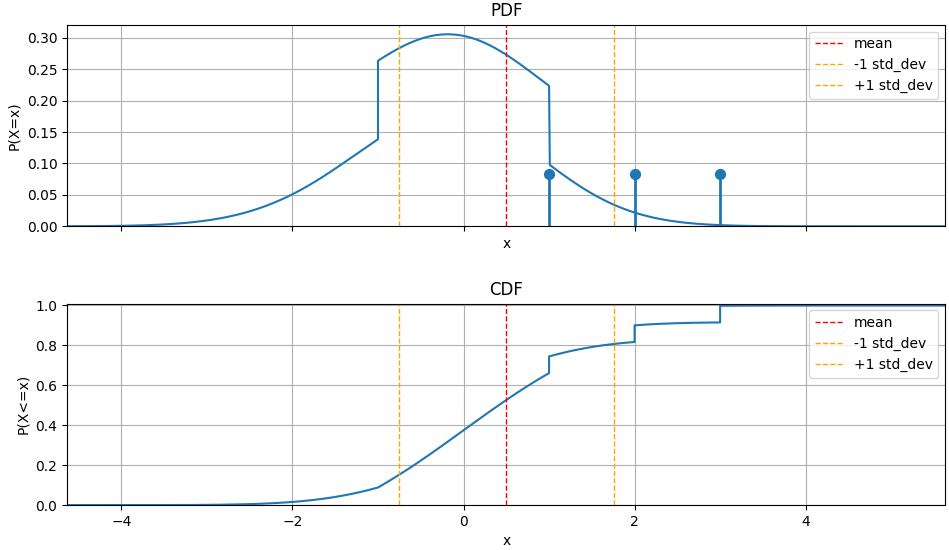
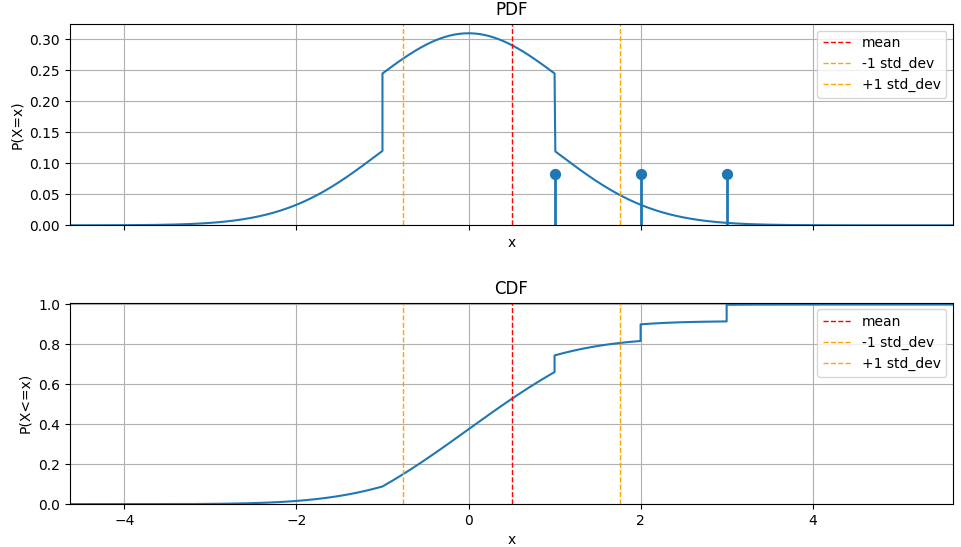
bugfix: convolution

Changed region(s): [[0.0, 0.0, 1.0, 0.4662], [0.0, 0.4973, 1.0, 0.9634], [0.5195, 0.9634, 0.5501, 0.9945]]

diff --git a/randcraft/rvs/multi.py b/randcraft/rvs/multi.py
@@ -86,22 +86,49 @@ class MultiRV(ContinuousRV):
         return ProbabilityDensityFunction(x=x, y=result)
 
     def _calculate_continuous_pdf(self, x: np.ndarray) -> np.ndarray:
-        if len(self.continuous_pdfs) == 1:
+        C = len(self.continuous_pdfs)
+        if C == 1:
             return self.continuous_pdfs[0].calculate_pdf(x).y
-
         assert x.ndim == 1, "Input numpy array must be 1D"
-        low = np.min(x)
-        high = np.max(x)
+        return self._continuous_pdf_ref.evaluate(x=x)
+
+    @cached_property
+    def _continuous_pdf_ref(self) -> ProbabilityDensityFunction:
+        C = len(self.continuous_pdfs)
+        N = 10000
+
+        if self.statistics.has_infinite_lower_support:
+            low = self.mean - 5 * self.std_dev
+        else:
+            low = self.statistics.support[0].value
+        low = min(low, 0.0)
+
+        if self.statistics.has_infinite_upper_support:
+            high = self.mean + 5 * self.std_dev
+        else:
+            high = self.statistics.support[1].value
+        high = max(high, 0.0)
+
         spread = high - low
+        spread = max(spread, 1.0)  # Ensure some minimum spread
         start = low - spread
         end = high + spread
-        x2 = np.linspace(start, end, len(x) * 3)
-        raw_pdfs = [pdf.calculate_pdf(x2).y for pdf in self.continuous_pdfs]
-        combined_pdf = fftconvolve(raw_pdfs[0], raw_pdfs[1], mode="same")
-        for pdf in raw_pdfs[2:]:
-            combined_pdf = fftconvolve(combined_pdf, pdf, mode="same")
-        combined_pdf /= np.trapezoid(combined_pdf, x2)  # Normalize
-        return np.interp(x, x2, combined_pdf)
+        x2 = np.linspace(start, end, N)
+        zero_pad = np.zeros(N)
+
+        def pad(arr: np.ndarray) -> np.ndarray:
+            return np.concatenate((zero_pad, arr, zero_pad))
+
+        pdfs = [pad(pdf.calculate_pdf(x2).y) for pdf in self.continuous_pdfs]
+
+        full_pdf = fftconvolve(pdfs[0], pdfs[1], mode="full")
+        for pdf in pdfs[2:]:
+            full_pdf = fftconvolve(full_pdf, pdf, mode="full")
+
+        new_x = np.linspace(start * C, end * C, C * (N - 1) + 1)
+        short_pdf = full_pdf[N * C : N * C + len(new_x)]
+        short_pdf /= np.trapezoid(short_pdf, new_x)  # Normalize
+        return ProbabilityDensityFunction(x=new_x, y=short_pdf)
 
     @cached_property
     def _cdf_estimator(self) -> CdfEstimator:

diff --git a/tests/test_combining_rvs.py b/tests/test_combining_rvs.py
@@ -1,6 +1,9 @@
+import numpy as np
+
 from randcraft.constructors import make_beta, make_coin_flip, make_die_roll, make_dirac, make_discrete, make_normal, make_uniform
 from randcraft.random_variable import RandomVariable
 from randcraft.rvs import DiracDeltaRV, DiscreteRV
+from randcraft.rvs.continuous import ContinuousRV
 from tests.base_test_case import BaseTestCase
 
 
@@ -95,6 +98,26 @@ class TestCombiningRvs(BaseTestCase):
         self.assertIsInstance(offset, RandomVariable)
         self.assertAlmostEqual(offset.get_mean(exact=True), 6)
         self.assertAlmostEqual(offset.get_variance(exact=True), rv1.get_variance())
+
+    def test_uniform_convolution_double(self) -> None:
+        rv1 = make_uniform(low=0, high=2)
+        joined = rv1.multi_sample(2)
+        inner_rv: ContinuousRV = joined._rv  # type: ignore
+        values = np.array([0, 1, 2, 3, 4])
+        pdf = inner_rv.calculate_pdf(x=values)
+        expected_values = [0, 0.25, 0.5, 0.25, 0.0]
+        for v, ev in zip(pdf.y, expected_values):
+            self.assertAlmostEqual(v, ev, places=3)
+
+    def test_uniform_convolution_triple(self) -> None:
+        rv1 = make_uniform(low=0, high=2)
+        joined = rv1.multi_sample(3)
+        inner_rv: ContinuousRV = joined._rv  # type: ignore
+        values = np.array([0, 1, 2, 3, 4, 5, 6])
+        pdf = inner_rv.calculate_pdf(x=values)
+        self.assertAlmostEqual(pdf.y[0], 0.0, places=3)
+        self.assertAlmostEqual(pdf.y[-1], 0.0, places=3)
+        self.assertEqual(np.argmax(pdf.y), 3)
 
     def test_uniform_multiplications(self) -> None:
         rv1 = make_uniform(low=0, high=10)

diff --git a/randcraft/constructors.py b/randcraft/constructors.py
@@ -1,5 +1,5 @@
 import numpy as np
-from scipy.stats import beta, gamma, norm, uniform
+from scipy.stats import beta, gamma, lognorm, norm, uniform
 from scipy.stats._distn_infrastructure import rv_continuous
 
 from randcraft.random_variable import RandomVariable
@@ -10,17 +10,7 @@ from randcraft.rvs import (
 )
 from randcraft.utils import clean_1d_array
 
-__all__ = [
-    "make_discrete",
-    "make_dirac",
-    "make_coin_flip",
-    "make_die_roll",
-    "make_scipy",
-    "make_normal",
-    "make_uniform",
-    "make_beta",
-    "make_gamma",
-]
+__all__ = ["make_discrete", "make_dirac", "make_coin_flip", "make_die_roll", "make_scipy", "make_normal", "make_uniform", "make_beta", "make_gamma", "make_log_normal"]
 
 
 # Discrete
@@ -75,3 +65,9 @@ def make_gamma(a: float | int, scale: float | int) -> RandomVariable:
     a = float(a)
     scale = float(scale)
     return make_scipy(scipy_rv=gamma, a=a, scale=scale)
+
+
+def make_log_normal(mean: float | int, std_dev: float | int) -> RandomVariable:
+    mean = float(mean)
+    std_dev = float(std_dev)
+    return make_scipy(scipy_rv=lognorm, s=std_dev, scale=np.exp(mean))

diff --git a/randcraft/__init__.py b/randcraft/__init__.py
@@ -2,22 +2,6 @@
 randcraft
 """
 
-from randcraft.constructors import (
-    make_coin_flip,
-    make_die_roll,
-    make_dirac,
-    make_discrete,
-    make_gamma,
-    make_normal,
-    make_uniform,
-)
+from randcraft.constructors import make_coin_flip, make_die_roll, make_dirac, make_discrete, make_gamma, make_log_normal, make_normal, make_uniform
 
-__all__ = [
-    "make_normal",
-    "make_uniform",
-    "make_discrete",
-    "make_dirac",
-    "make_coin_flip",
-    "make_die_roll",
-    "make_gamma",
-]
+__all__ = ["make_normal", "make_uniform", "make_discrete", "make_dirac", "make_coin_flip", "make_die_roll", "make_gamma", "make_log_normal"]

diff --git a/randcraft/models.py b/randcraft/models.py
@@ -237,7 +237,7 @@ class ProbabilityDensityFunction:
     x: np.ndarray
     y: np.ndarray
 
-    def pdf(self, x: np.ndarray) -> np.ndarray:
+    def evaluate(self, x: np.ndarray) -> np.ndarray:
         return np.interp(x, self.x, self.y, left=0.0, right=0.0)
 
 

diff --git a/tests/test_plotting.py b/tests/test_plotting.py
@@ -32,3 +32,8 @@ class TestPlotting(TestCase):
 
         new_rv = rv.scale(-1) - 2
         new_rv.plot()
+
+    def test_central_limit(self) -> None:
+        rv = make_uniform(low=0, high=1)
+        joined = rv.multi_sample(n=10)
+        joined.plot()

diff --git a/README.md b/README.md
@@ -105,6 +105,18 @@ rv_joined = rv_a + rv_b
 ```
 Uses `gaussian_kde` by `scipy.stats` under the hood. You also have the option to pass arguments for `gaussian_kde`, or provide your own kernel as a `RandomVariable`.
 
+### Central limit theorom
+```python
+from randcraft import make_uniform
+
+rv = make_uniform(low=0, high=1)
+# <RandomVariable(scipy-uniform): mean=0.5, var=0.0833>
+joined = rv.multi_sample(n=10)
+# <RandomVariable(multi): mean=5.0, var=0.833>
+joined.plot()
+# It looks normal :)
+```
+
 ### Mixing continuous and discrete variables
 You have observations of two independent random variables. You want to use kernal density estimation to create continuous random variables for each and then add them together.
 ```python
@@ -121,9 +133,9 @@ discrete = make_discrete(values=[1, 2, 3])
 # <RandomVariable(discrete): mean=2.0, var=0.667>
 
 # Make a new rv which has a random chance of drawing from one of the other 4 rvs
-mixture = mix_rvs([rv1, rv2, combined, discrete])
+mixed = mix_rvs([rv1, rv2, combined, discrete])
 # <RandomVariable(mixture): mean=0.5, var=1.58>
-mixture.plot()
+mixed.plot()
 ```
 ![Mixture](https://github.com/RobbieKiwi/RandCraft/blob/68607c6a4cefb97aa5c94614ed0ff05901e6a45a/images/mixture.png?raw=true)
 
